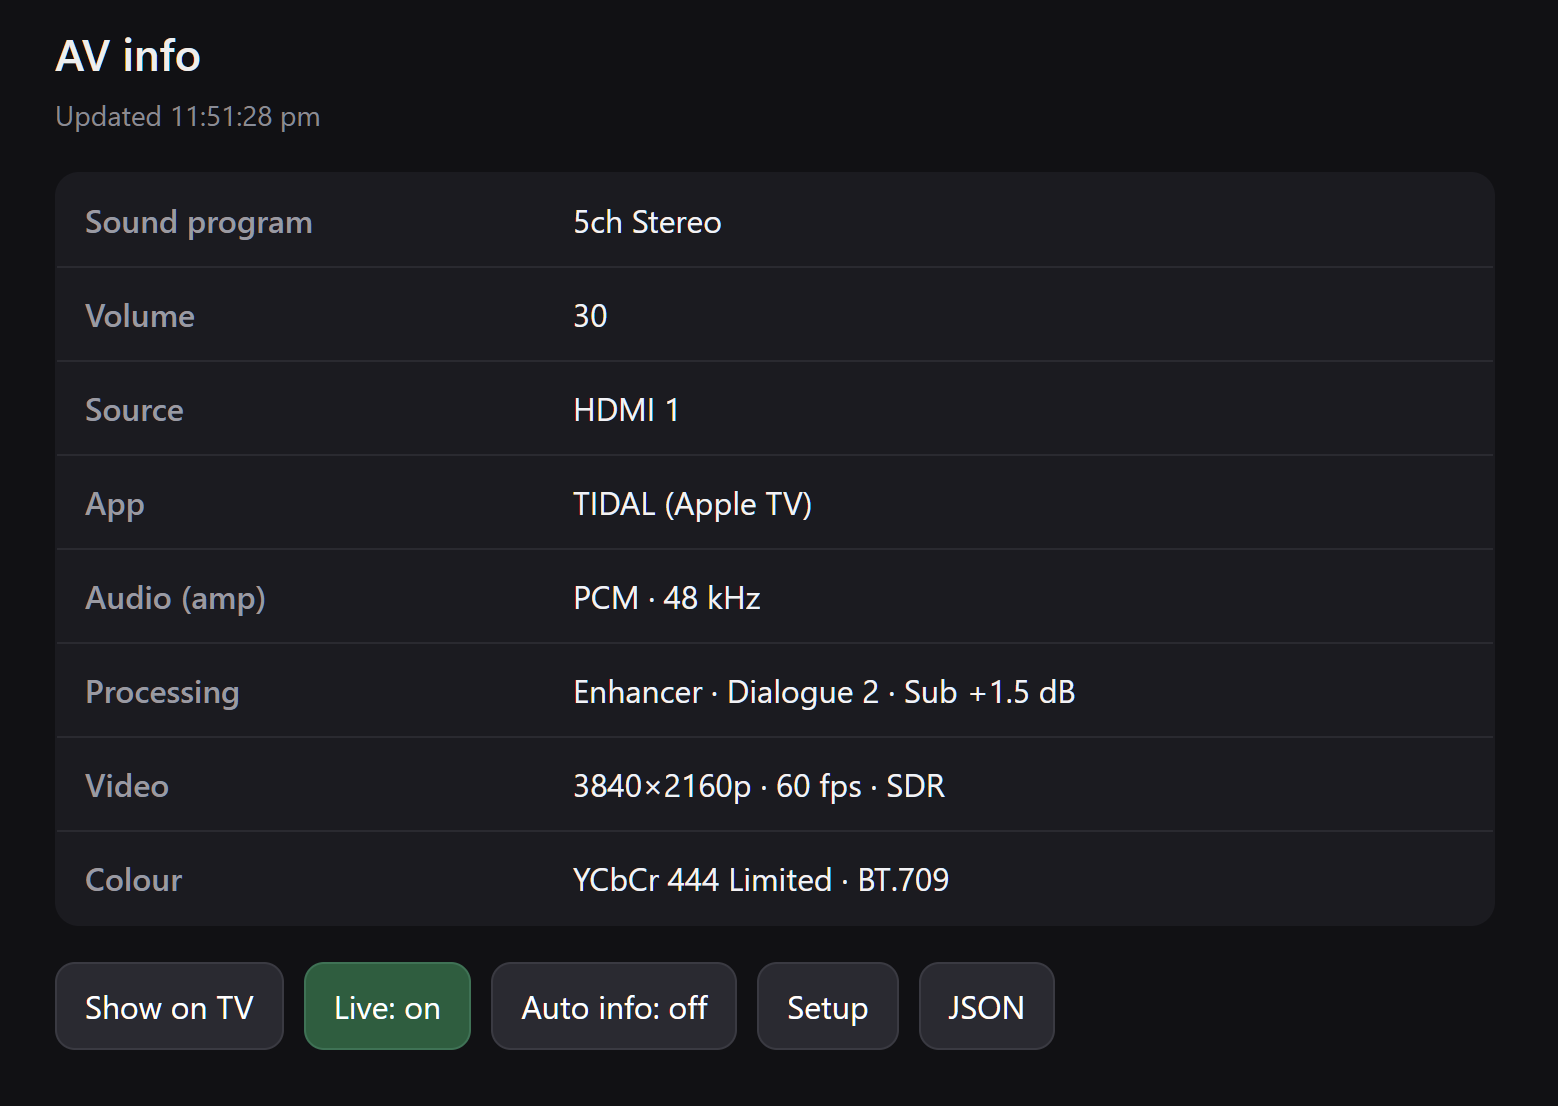
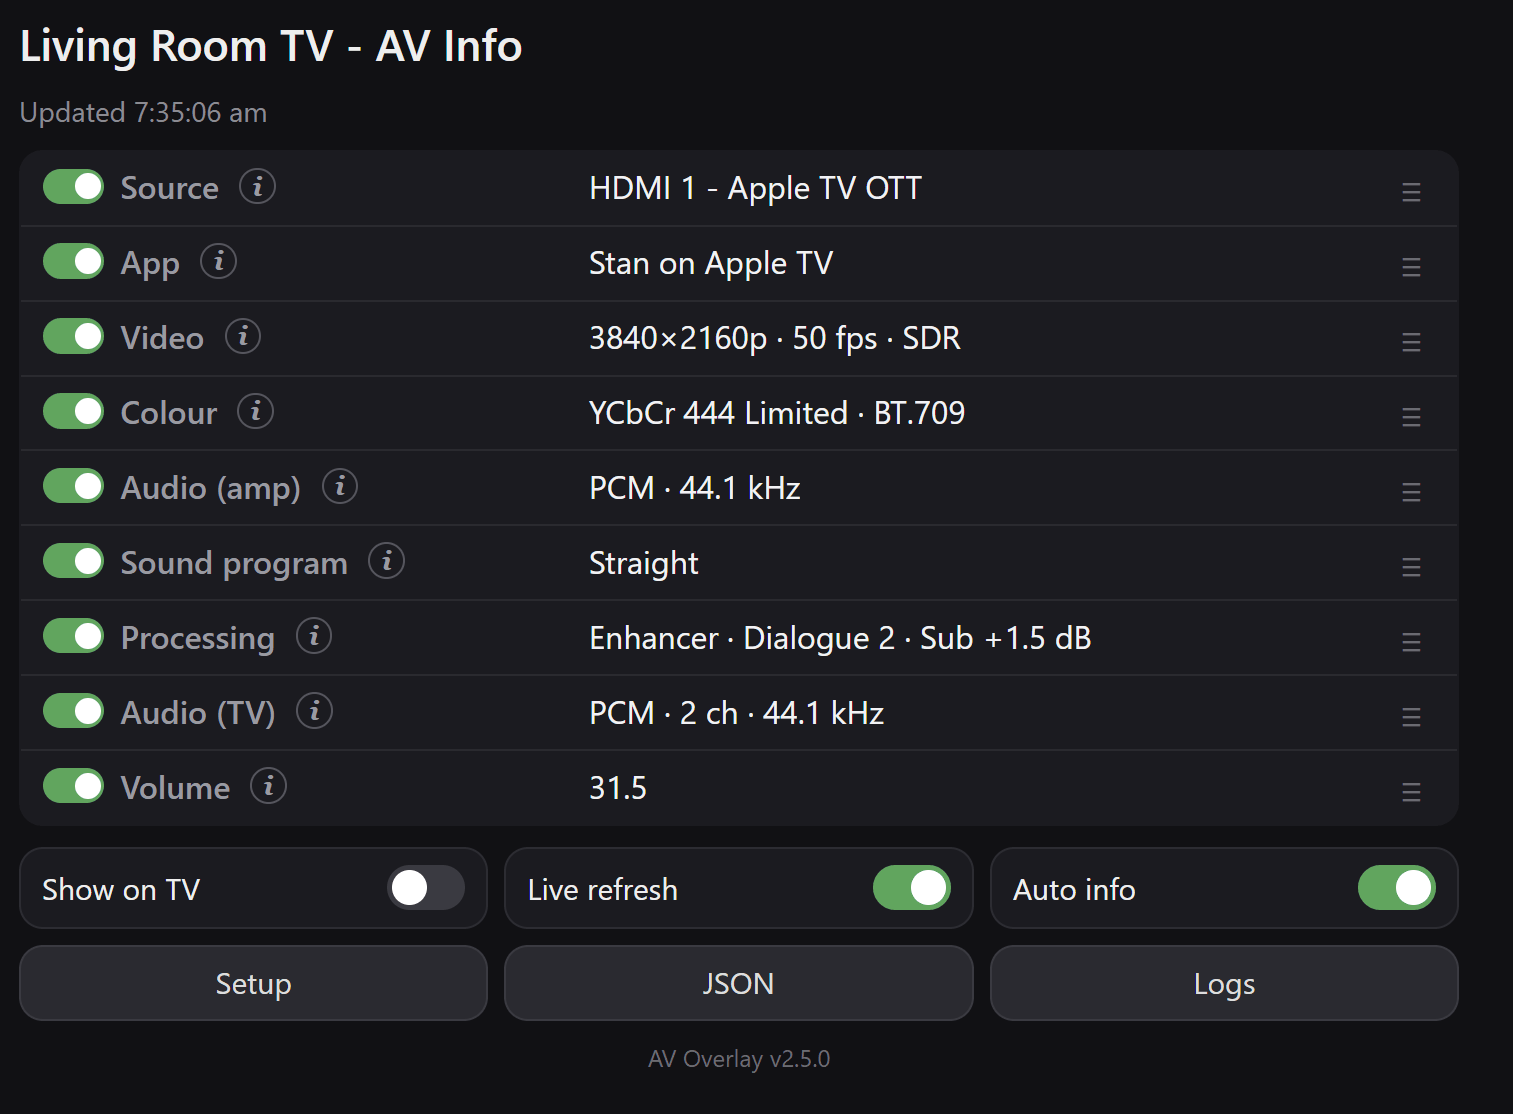
docs: v2.5 screenshots in the README
Replace the info bar photo, status page and setup page screenshots with
v2.5 captures (per-row switches and order, Audio (TV), Logs), split the
setup page into three sections and add the display and info bar one.
Existing file names are kept so links already posted keep working.

Claude-Session: https://claude.ai/code/session_019NGm7YBQoAdzDt6J4psDh1

diff --git a/README.md b/README.md
@@ -22,7 +22,7 @@ the receiver's volume and mute state, the sound program, the audio format actual
   <tr>
     <td align="center" valign="top">
       <img src="docs/images/bar-plex-dolby-vision.jpg" alt="Info bar over a Dolby Vision title played from Infuse on an Apple TV, with Plex stream details" width="100%"><br>
-      <sub>The info bar over Dolby Vision from an Apple TV app: sound program, input, detected app, audio, Plex stream (direct play), amp processing, video and colour.</sub>
+      <sub>The info bar over Dolby Vision from Infuse on an Apple TV: source, app, video and colour, the receiver's audio, sound program and processing, Audio (TV), volume, and the Plex stream. The Apple TV sends PCM, so only the Plex row shows the real DD+ Atmos 5.1.</sub>
     </td>
     <td align="center" valign="top">
       <img src="docs/images/bar-live-tv.jpg" alt="Info bar on Live TV showing the receiver's surround decoder" width="100%"><br>
@@ -34,18 +34,28 @@ the receiver's volume and mute state, the sound program, the audio format actual
 <table>
   <tr>
     <td align="center" valign="top" width="50%">
-      <img src="docs/images/status-page.png" alt="The status page with Show on TV, Live and Auto info buttons" width="100%"><br>
-      <sub>The status page (<code>/status</code>): current values, Show/Hide on TV, a live view and the Auto info switch.</sub>
+      <img src="docs/images/status-page.png" alt="The status page with an on/off switch and drag handle per row, and Show on TV, Live refresh, Auto info, Setup, JSON and Logs controls" width="100%"><br>
+      <sub>The status page (<code>/status</code>): current values, with an on/off switch and a drag handle on every row to choose and order the info bar. Show on TV, live refresh, Auto info, and the Logs page.</sub>
     </td>
     <td align="center" valign="top" width="50%">
-      <img src="docs/images/setup-receiver-plex.png" alt="The setup page: receiver, Plex, Jellyfin and display settings" width="100%"><br>
-      <sub>The setup page (<code>/setup</code>): receiver address, optional Plex and Jellyfin, info bar settings, and per-app sound programs. Sections are collapsible.</sub>
+      <img src="docs/images/setup-display-info-bar.png" alt="Setup page display and info bar settings, including the Audio (TV) option and the row checklist" width="100%"><br>
+      <sub>Display and info bar settings on <code>/setup</code>: auto info, the optional Audio (TV) row (works without a receiver), position, font sizes, timing and which rows to show.</sub>
     </td>
   </tr>
 </table>
 
-<img src="docs/images/setup-sound-rules.png" alt="Sound program per app rules on the setup page" width="100%"><br>
-<sub>Per-app sound programs on the setup page: a default, then one rule per input, LG app or Apple TV app, with tick boxes to show or hide each group.</sub>
+<table>
+  <tr>
+    <td align="center" valign="top" width="50%">
+      <img src="docs/images/setup-receiver-plex.png" alt="The setup page: Yamaha receiver, Plex and Jellyfin settings" width="100%"><br>
+      <sub>The setup page (<code>/setup</code>): receiver address (leave it empty for TV-only mode) and optional Plex and Jellyfin. Sections are collapsible.</sub>
+    </td>
+    <td align="center" valign="top" width="50%">
+      <img src="docs/images/setup-sound-rules.png" alt="Sound program per app rules on the setup page" width="100%"><br>
+      <sub>Per-app sound programs: a default, then one rule per input, LG app or Apple TV app, with tick boxes to show or hide each group.</sub>
+    </td>
+  </tr>
+</table>
 
 - **Volume popup** (bottom-right) whenever the receiver's volume or mute changes, including half steps.
 - **Info bar** with the sound program, volume, source, audio format, Plex or Jellyfin stream details (optional),
